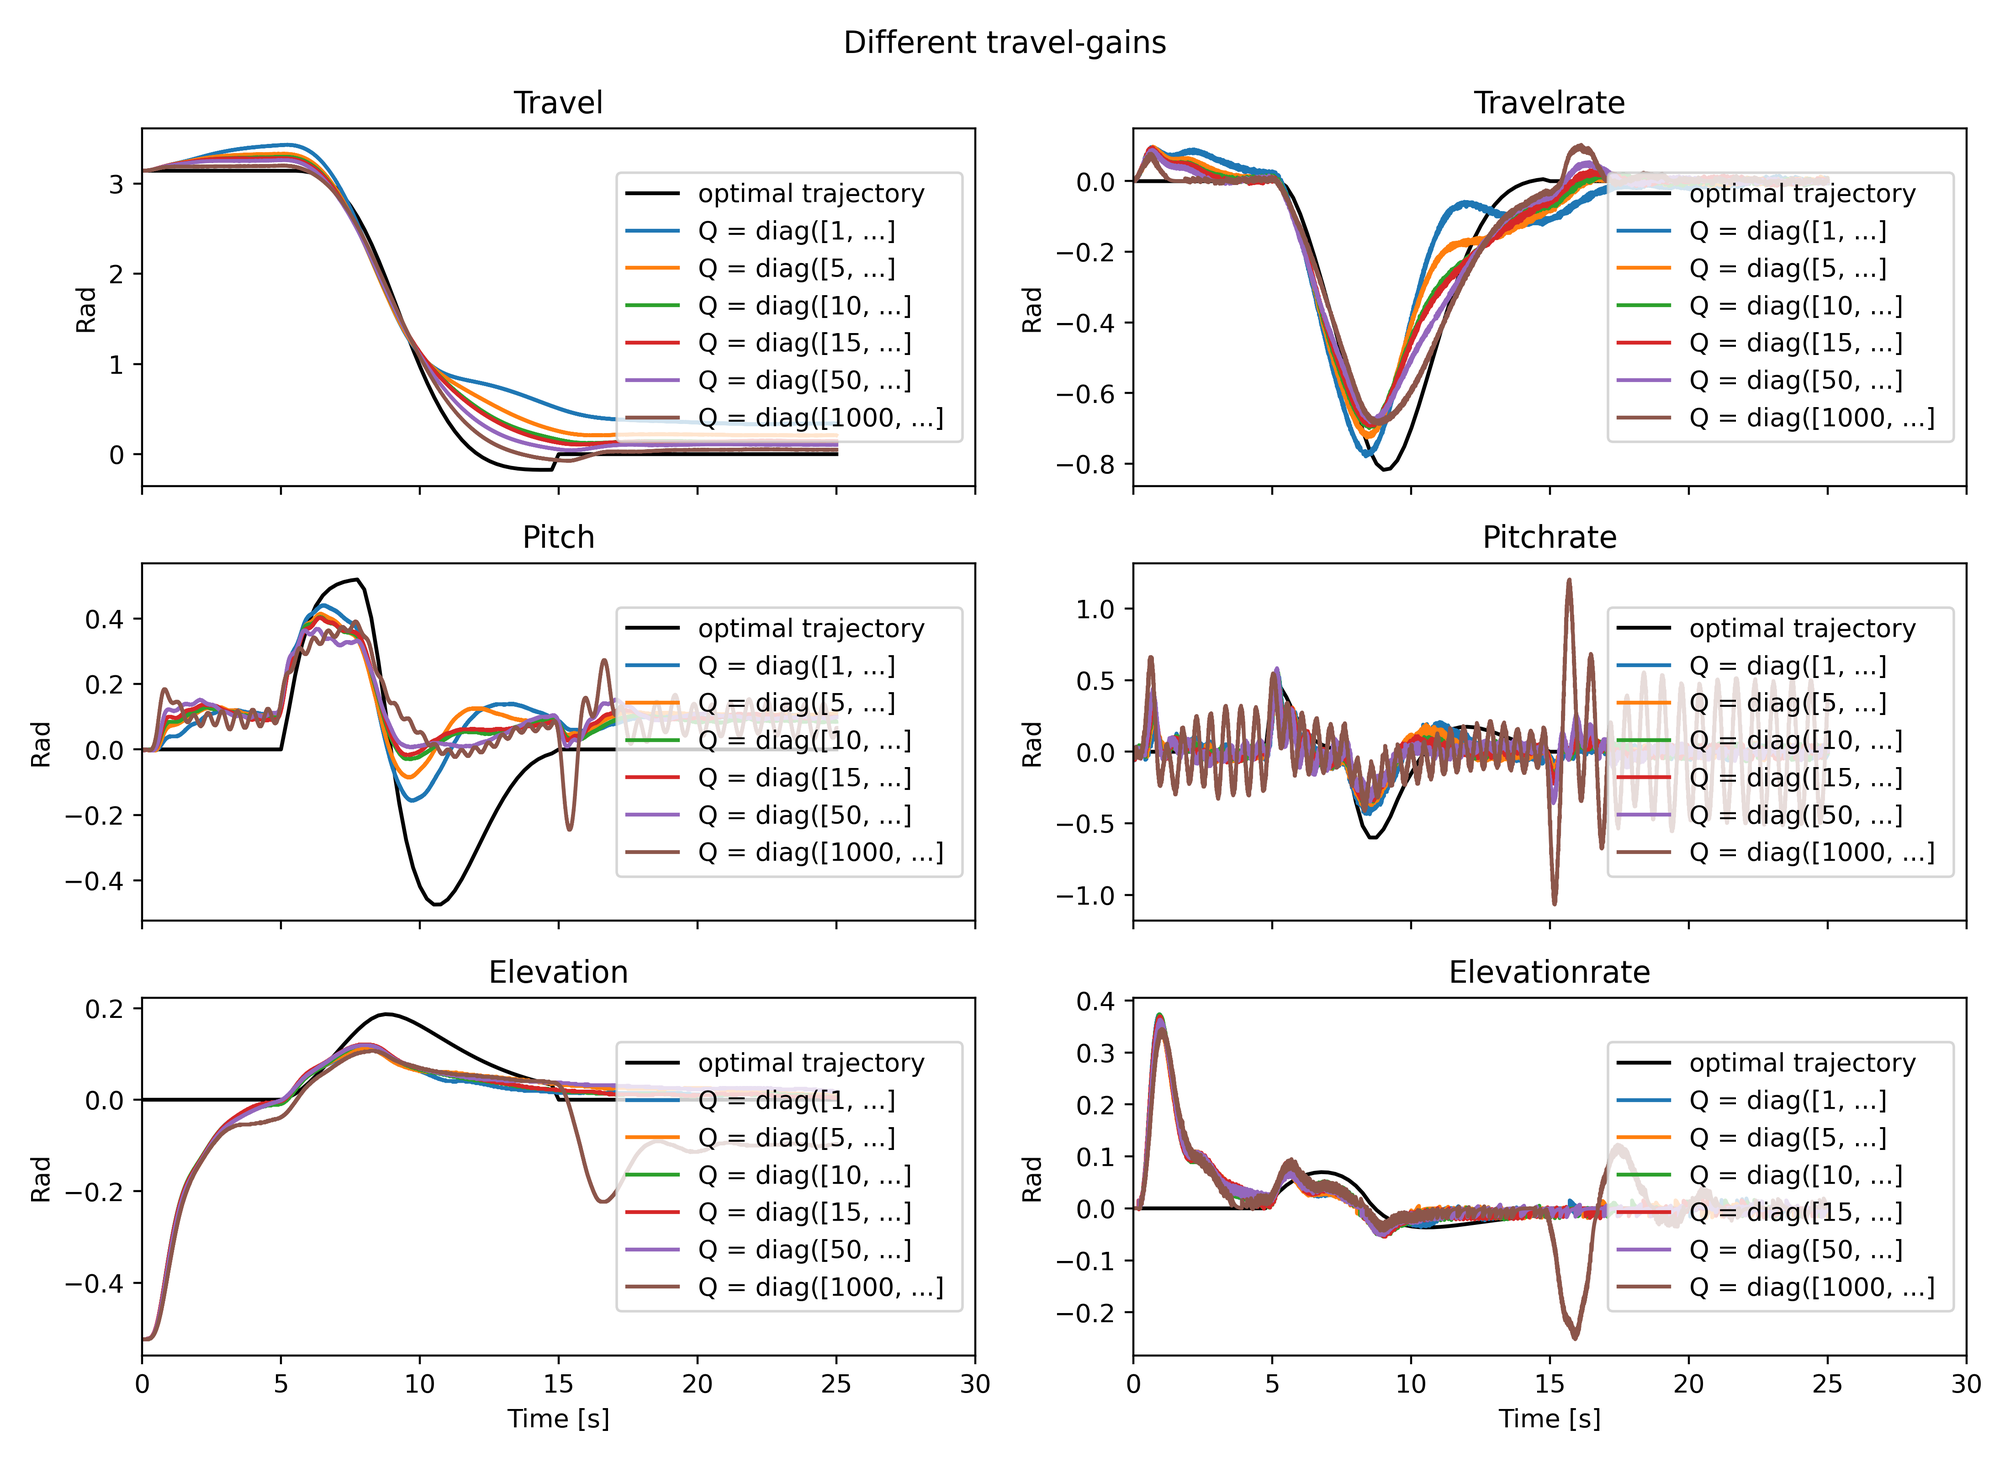
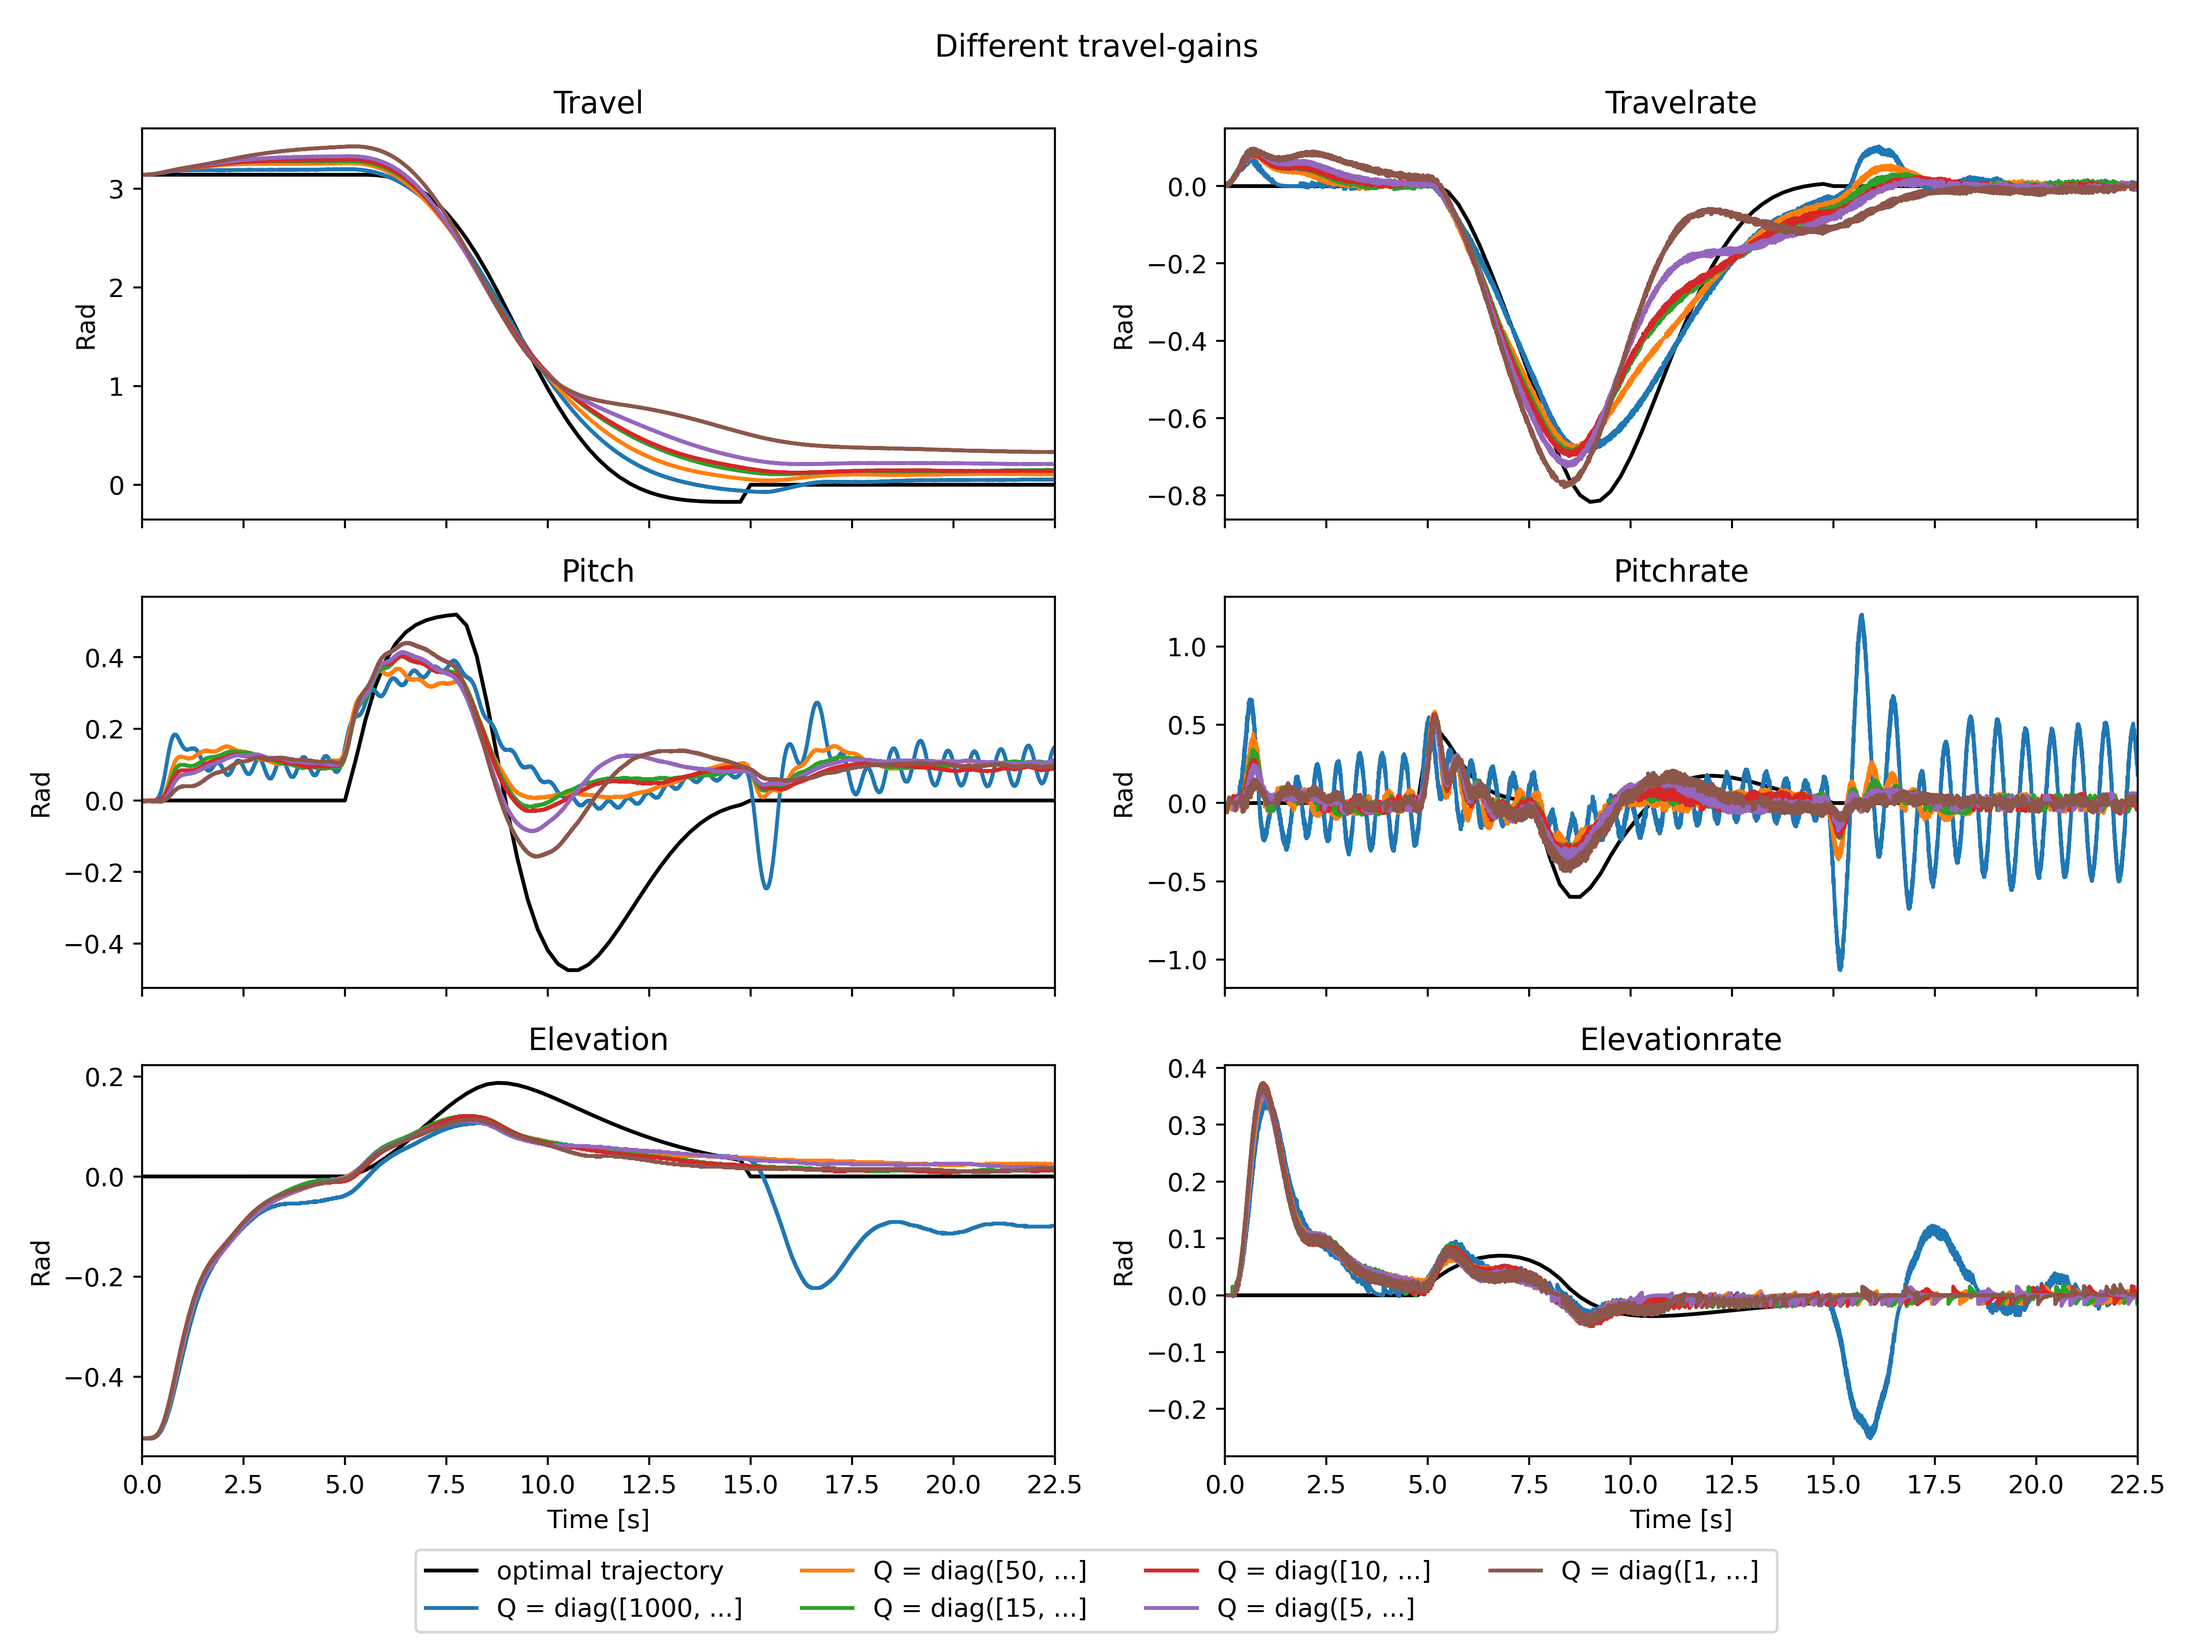
Update LAB4 plots

diff --git a/data/plot_LAB4.py b/data/plot_LAB4.py
@@ -42,31 +42,31 @@ def plot_different_travel_gains():
 
     fig, ax = optlab.plot.plot_comparisons(
         data_to_compare = [
-            tests[0],
-            tests[1],
-            tests[2],
-            tests[3],
-            tests[9],
             tests[10],
+            tests[9],
+            tests[3],
+            tests[2],
+            tests[1],
+            tests[0],
         ],
         columns_to_compare=["Travel", "Travelrate", "Pitch", "Pitchrate", "Elevation", "Elevationrate"],
         labels = [
-            "Q = diag([1, ...]",
-            "Q = diag([5, ...]",
-            "Q = diag([10, ...]",
-            "Q = diag([15, ...]",
-            "Q = diag([50, ...]",
             "Q = diag([1000, ...]",
+            "Q = diag([50, ...]",
+            "Q = diag([15, ...]",
+            "Q = diag([10, ...]",
+            "Q = diag([5, ...]",
+            "Q = diag([1, ...]",
         ],
         plot_optimal_trajectory=True,
-        xlim=[0, 30],
+        xlim=[0, 22.5],
         fig = fig,
         ax = ax,
         forced_xlabel_loc=[4],
-        legend_loc="right"
+        legend_ncols=4
     )
 
-    fig.set_size_inches(11, 8)
+    fig.set_size_inches(12, 9)
 
     return fig, ax
 
@@ -78,4 +78,4 @@ if __name__ == '__main__':
 
     fig, ax = plot_different_travel_gains()
     fig.suptitle("Different travel-gains")
-    optlab.plot.export_plot("LAB4_travel_gains")
+    optlab.plot.export_plot("LAB4_travel_gains", rect=(0,0.05, 1, 1))
